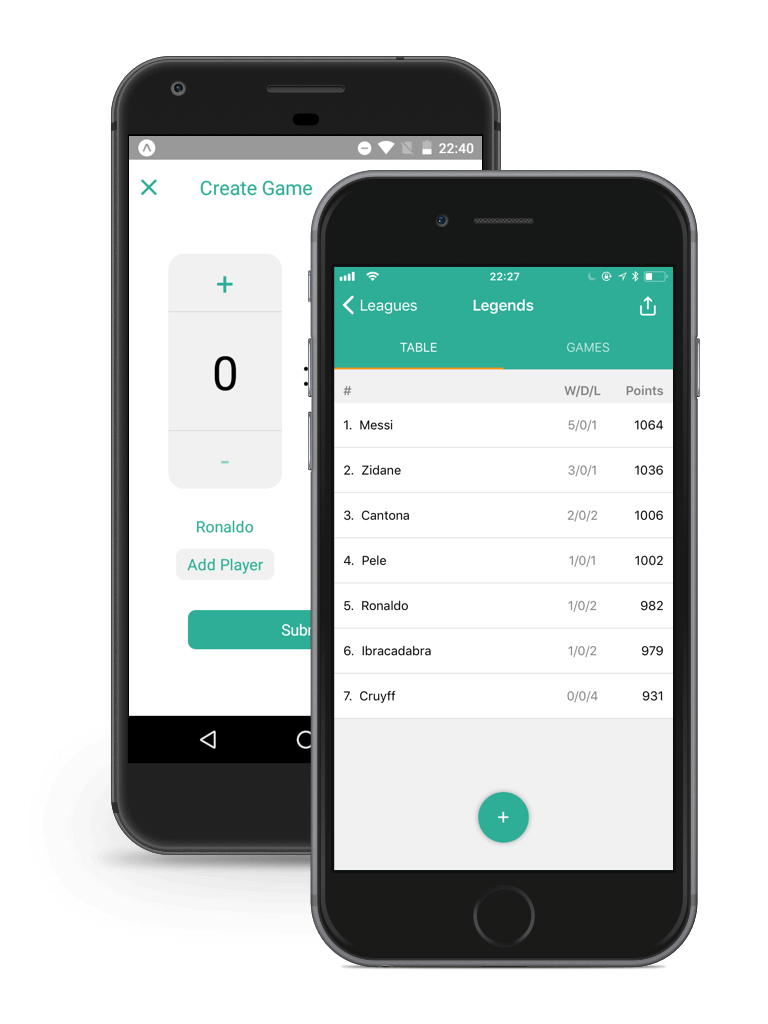
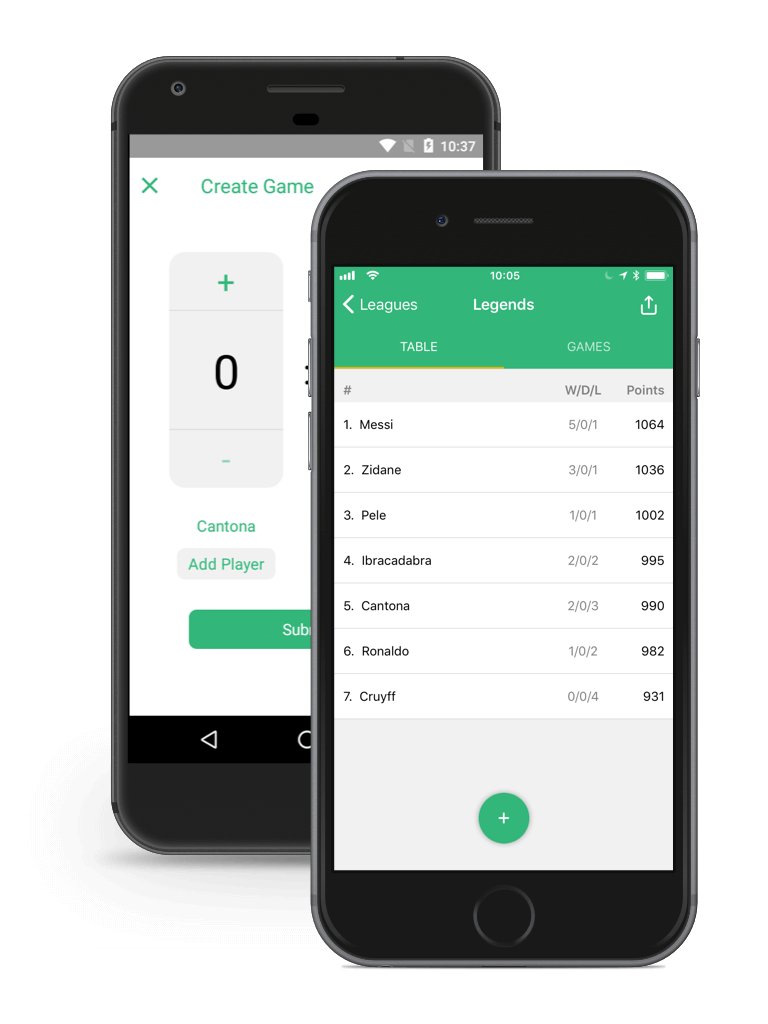
Last color update

diff --git a/source/stylesheets/main.scss b/source/stylesheets/main.scss
@@ -1,4 +1,4 @@
-$main-color: #008B24;
+$main-color: #33B67A;
 $secondary-color: #F1D134;
 
 $text-color: #fff;
